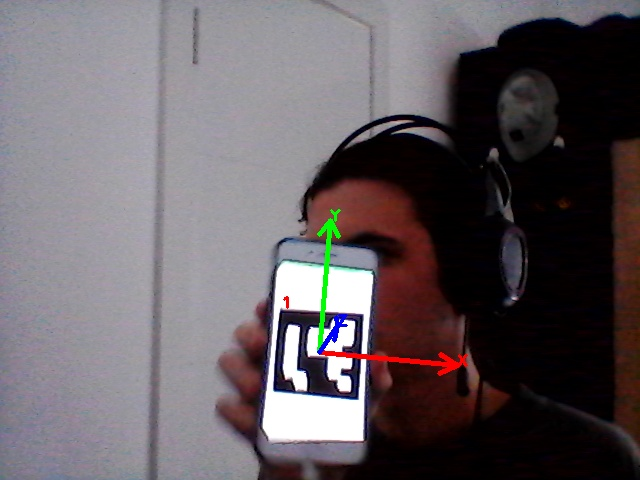
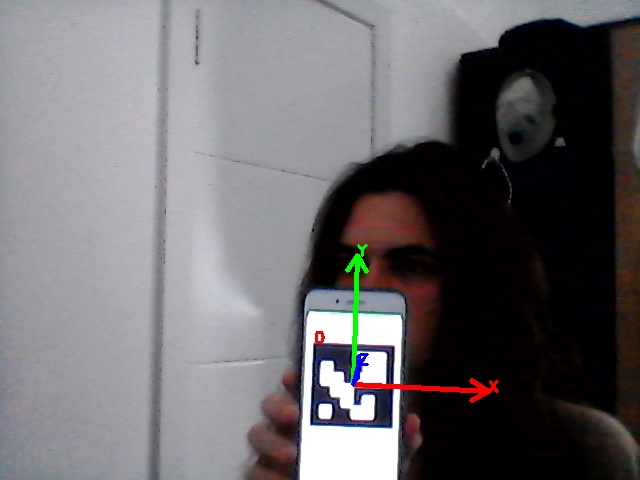
markers update

diff --git a/CameraBackup.cpp b/CameraBackup.cpp
@@ -151,3 +151,17 @@
 					//glBindTexture(GL_TEXTURE_2D, textureCube);
 					//glDrawArrays(GL_TRIANGLES, 0, 36);
 					//VAO2.Unbind();
+
+					//std::cout << "Transformation matrix for marker ID: " << ids[i] << std::endl;
+					//for (int row = 0; row < 4; ++row) {
+					//	for (int col = 0; col < 4; ++col) {
+					//		std::cout << "markerModel[row][col]: " << markerModel[row][col] << std::endl;
+					//	}
+					//}
+
+					//for (int j = 0; j < 8; j++) {
+					//	glm::vec4 transformedVertex = markerModel * glm::vec4(cubeVerticesMarker[j * 5], cubeVerticesMarker[j * 5 + 1], cubeVerticesMarker[j * 5 + 2], 1.0f);
+					//	std::cout << "Cube vertex " << j << " after transformation: (" << transformedVertex.x << ", " << transformedVertex.y << ", " << transformedVertex.z << ")" << std::endl;
+					//}
+					//std::cout << "Rotation vector for marker ID " << ids[i] << ": (" << rvecs[i][0] << ", " << rvecs[i][1] << ", " << rvecs[i][2] << ")" << std::endl;
+					//std::cout << "Translation vector for marker ID " << ids[i] << ": (" << tvecs[i][0] << ", " << tvecs[i][1] << ", " << tvecs[i][2] << ")" << std::endl;

diff --git a/DrawClass.h b/DrawClass.h
@@ -1,0 +1,16 @@
+#ifndef DRAW_CLASS_H
+#define DRAW_CLASS_H
+
+#include<opencv2/opencv.hpp>
+
+
+class DrawClass
+{
+public:
+	static void drawAxis(const cv::Mat& image, const cv::Mat& cameraMatrix, const cv::Mat& distCoeffs, const cv::Vec3d& rvec, const cv::Vec3d& tvec, const float& length);
+	static void drawCube(const cv::Mat& image, const cv::Mat& cameraMatrix, const cv::Mat& distCoeffs, const cv::Vec3d& rvec, const cv::Vec3d& tvec, const float& sideLength);
+};
+
+#endif // !DRAW_CLASS_H
+
+

diff --git a/ShaderHelper.h b/ShaderHelper.h
@@ -11,7 +11,7 @@ public:
 	static void PrepareProgram(const GLuint& shaderProgram);
 	static GLint GetLocation(const GLuint& shaderProgram, const std::string& variable);
 	static void PassVariable(const GLint& variable, const GLint& location);
-	static void PassMatrix(GLfloat* matrix, const GLint& location);
+	static void PassMatrix(const GLfloat* matrix, const GLint& location);
 };
 
 
